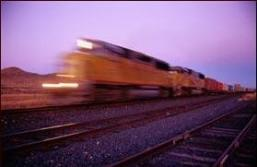
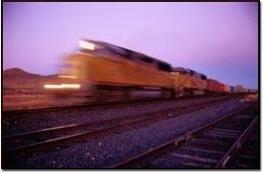
-All pics bordered and shadowed -All Default style selection now yield empty string (was "default") -Parameters link fix

diff --git a/examples/WEB-INF/src/org/millstone/examples/features/FeatureParameters.java b/examples/WEB-INF/src/org/millstone/examples/features/FeatureParameters.java
@@ -42,7 +42,7 @@ public class FeatureParameters
 				new ExternalResource("/examples/features/test/uri?test=1&test=2")));
 			l.addComponent(new Label("Or this: "));
 			l.addComponent(new Link("/examples/features/test/uri?mary=john&count=3",
-				new ExternalResource(":8080/examples/features/test/uri?mary=john&count=3")));
+				new ExternalResource("/examples/features/test/uri?mary=john&count=3")));
 		} catch (Exception e) {
 			System.out.println("Couldn't get hostname for this machine: "+e.toString());
 			e.printStackTrace();	

diff --git a/examples/WEB-INF/src/org/millstone/examples/features/FeatureTree.java b/examples/WEB-INF/src/org/millstone/examples/features/FeatureTree.java
@@ -58,7 +58,7 @@ public class FeatureTree extends Feature implements Action.Handler {
 		Select s =
 			createSelect(
 				"Style",
-				new String[] { "default", "menu","dropmenu" },
+				new String[] { "", "menu","dropmenu" },
 				new String[] { "Default", "Menu","Dropmenu" });
 
 		alternateEditors.put("style", s);

diff --git a/examples/WEB-INF/src/org/millstone/examples/features/FeatureDateField.java b/examples/WEB-INF/src/org/millstone/examples/features/FeatureDateField.java
@@ -47,7 +47,7 @@ public class FeatureDateField extends Feature {
 		Select s =
 			createSelect(
 				"Style",
-				new String[] { "default", "text", "calendar" },
+				new String[] { "", "text", "calendar" },
 				new String[] { "Default", "Text", "Calendar" });
 
 		alternateEditors.put("style", s);

diff --git a/examples/WEB-INF/src/org/millstone/examples/features/FeaturePanel.java b/examples/WEB-INF/src/org/millstone/examples/features/FeaturePanel.java
@@ -27,7 +27,7 @@ public class FeaturePanel extends Feature {
 		Select t =
 			createSelect(
 				"Style",
-				new String[] { "default", "light","strong" },
+				new String[] { "", "light","strong" },
 				new String[] { "Default", "Light","Strong" });
 
 		alternateEditors.put("style", t);

diff --git a/examples/WEB-INF/src/org/millstone/examples/features/FeatureTable.java b/examples/WEB-INF/src/org/millstone/examples/features/FeatureTable.java
@@ -130,7 +130,7 @@ public class FeatureTable extends Feature implements Action.Handler {
 		Select u =
 			createSelect(
 				"Style",
-				new String[] { "default", "list" },
+				new String[] { "", "list" },
 				new String[] { "Default", "List" });
 
 		alternateEditors.put("style", u);

diff --git a/examples/WEB-INF/src/org/millstone/examples/features/FeatureSelect.java b/examples/WEB-INF/src/org/millstone/examples/features/FeatureSelect.java
@@ -36,7 +36,7 @@ public class FeatureSelect extends Feature {
 		Select t =
 			createSelect(
 				"Style",
-				new String[] { "default", "optiongroup" },
+				new String[] { "", "optiongroup" },
 				new String[] { "Default", "Optiongroup" });
 
 		alternateEditors.put("style", t);

diff --git a/examples/WEB-INF/src/org/millstone/examples/features/FeatureOrderedLayout.java b/examples/WEB-INF/src/org/millstone/examples/features/FeatureOrderedLayout.java
@@ -48,7 +48,7 @@ public class FeatureOrderedLayout extends Feature {
 		Select t =
 			createSelect(
 				"Style",
-				new String[] { "default", "form" },
+				new String[] { "", "form" },
 				new String[] { "Default", "Form" });
 		alternateEditors.put("style", t);
 

diff --git a/examples/WEB-INF/src/org/millstone/examples/features/FeatureButton.java b/examples/WEB-INF/src/org/millstone/examples/features/FeatureButton.java
@@ -29,7 +29,7 @@ public class FeatureButton extends Feature {
 		Select s =
 			createSelect(
 				"Style",
-				new String[] { "default", "link" },
+				new String[] { "", "link" },
 				new String[] { "Default", "Link" });
 
 		alternateEditors.put("style", s);
